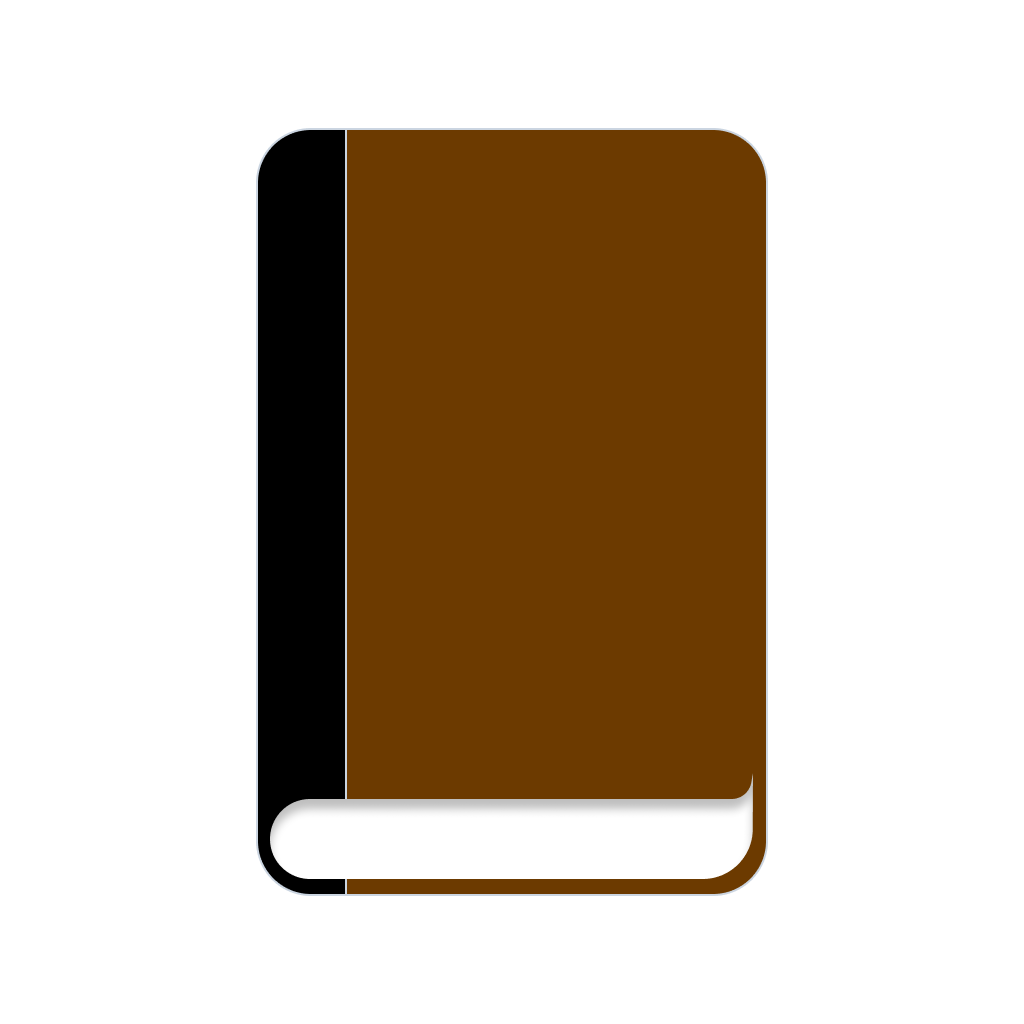
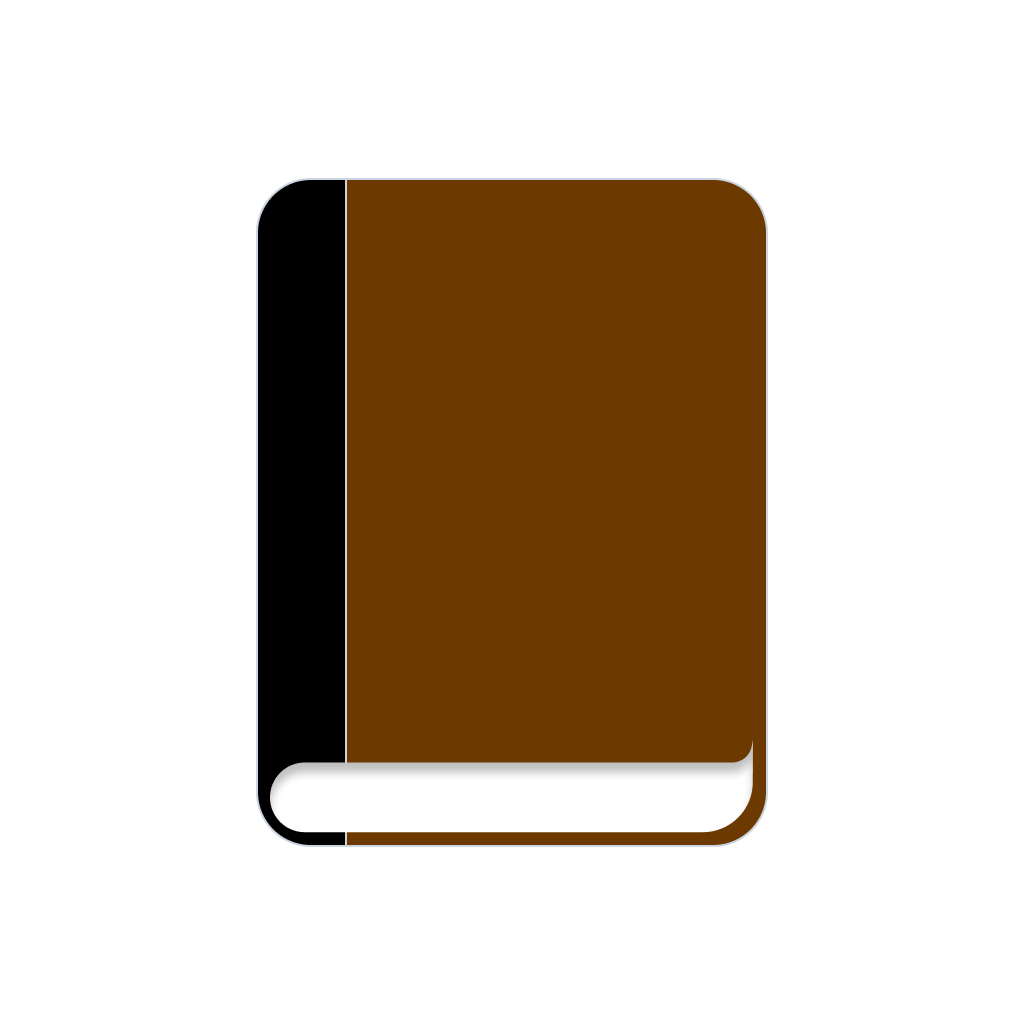
tweaking bits

Changed region(s): [[0.25, 0.7188, 0.75, 0.875], [0.25, 0.125, 0.75, 0.2188]]

diff --git a/Calc Edge/Features/NewEditJournal/Sections/ReviewSection.swift b/Calc Edge/Features/NewEditJournal/Sections/ReviewSection.swift
@@ -139,17 +139,6 @@ private struct TradeReviewEditor: View {
             .buttonStyle(.borderless)
         }
     }
-    
-#if os(macOS)
-    private let columns = [
-        GridItem(.flexible(minimum: 160), spacing: 12),
-        GridItem(.flexible(minimum: 160), spacing: 12)
-    ]
-#else
-    private let columns = [
-        GridItem(.adaptive(minimum: 150), spacing: 15)
-    ]
-#endif
 
     private var activeRules: [TradingRule] {
         rules.filter(\.isActive)

diff --git a/Calc Edge/Features/Notes/Views/NoteEditorView.swift b/Calc Edge/Features/Notes/Views/NoteEditorView.swift
@@ -140,10 +140,8 @@ private enum NoteLinkFormatter {
 
             let linkRange = lowerBound..<upperBound
             linkedText[linkRange].link = url
-            #if os(iOS)
             linkedText[linkRange].foregroundColor = .blue
             linkedText[linkRange].underlineStyle = .single
-            #endif
         }
 
         return linkedText